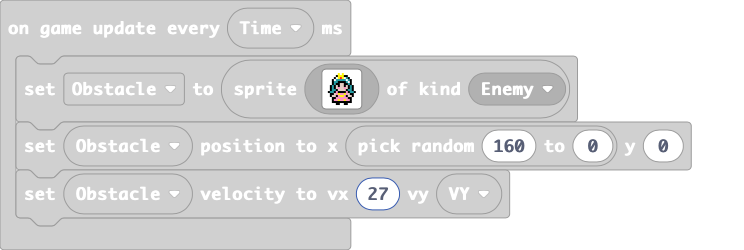
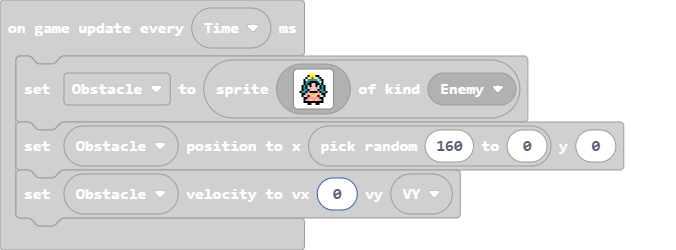
Update main.blocks, main.ts

diff --git a/main.ts b/main.ts
@@ -191,7 +191,7 @@ game.onUpdateInterval(Time, function () {
         . . . . . f f . . f f . . . . . 
         `, SpriteKind.Enemy)
     Obstacle.setPosition(randint(160, 0), 0)
-    Obstacle.setVelocity(27, VY)
+    Obstacle.setVelocity(0, VY)
 })
 game.onUpdateInterval(100, function () {
     MySpriteX = mySprite.x
